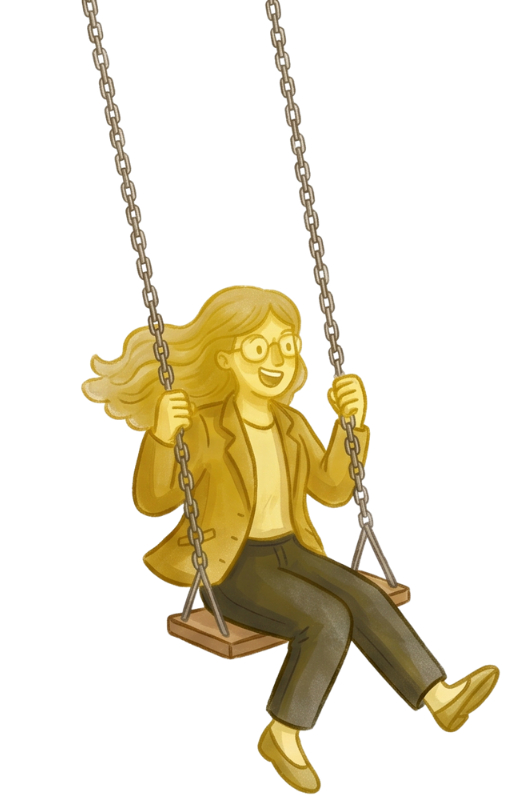
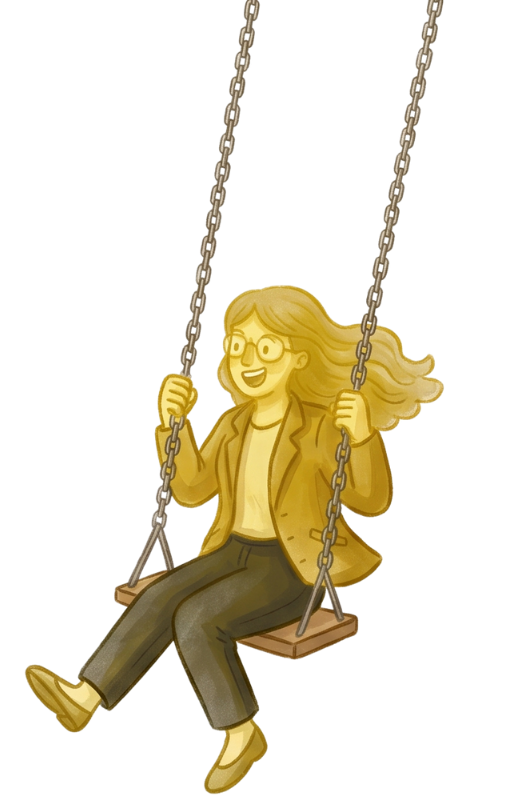
swing

Changed region(s): [[0.0305, 0.0, 0.9448, 0.9877]]

diff --git a/frontend/src/views/QuizView.vue b/frontend/src/views/QuizView.vue
@@ -6,6 +6,8 @@ import PageHeader from '@/components/layout/PageHeader.vue'
 import BaseButton from '@/components/ui/BaseButton.vue'
 const explorers = Object.values(import.meta.glob('@/assets/exploring/*.png', { eager: true, import: 'default' }))
 // One explorer, picked at random each time the page loads.
+const swingers = Object.values(import.meta.glob('@/assets/swinging/*.png', { eager: true, import: 'default' }))
+const swinger = swingers[Math.floor(Math.random() * swingers.length)]
 const explorer = explorers[Math.floor(Math.random() * explorers.length)]
 const quiz = useQuizStore()
 const router = useRouter()
@@ -24,7 +26,7 @@ function start() {
 }
 </script>
 <template>
-  <div>
+  <div class="relative">
     <PageHeader class="quiz-header" overline="Track Finder" title="Find a direction worth exploring" subtitle="Explore your interests, current confidence, working style and career goals across four IS tracks." />
     <div class="relative">
     <!-- Decorative explorer, drawn over the empty strip left of the content, so nothing moves. It is as wide as that
@@ -46,10 +48,14 @@ function start() {
       </section>
     </main>
     </div>
+    <!-- Decorative swinger, hung from just under the nav bar, staying in view as the page scrolls, in the empty strip right of the content. Same rules as the
+         explorer: drawn over the strip so nothing moves, as wide as the strip, only where the strip is wide enough. -->
+    <img :src="swinger" alt="" aria-hidden="true" class="swinger pointer-events-none fixed right-4 top-14 hidden h-auto min-[1100px]:block" />
   </div>
 </template>
 
 <style scoped>
+.swinger { width: min(15rem, calc((100vw - 1024px) / 2 + 0.5rem)); }
 .explorer { width: min(20rem, calc((100% - 1024px) / 2 + 0.5rem)); }
 .quiz-header { padding-inline: clamp(1.25rem, 5vw, 3rem); }
 </style>
